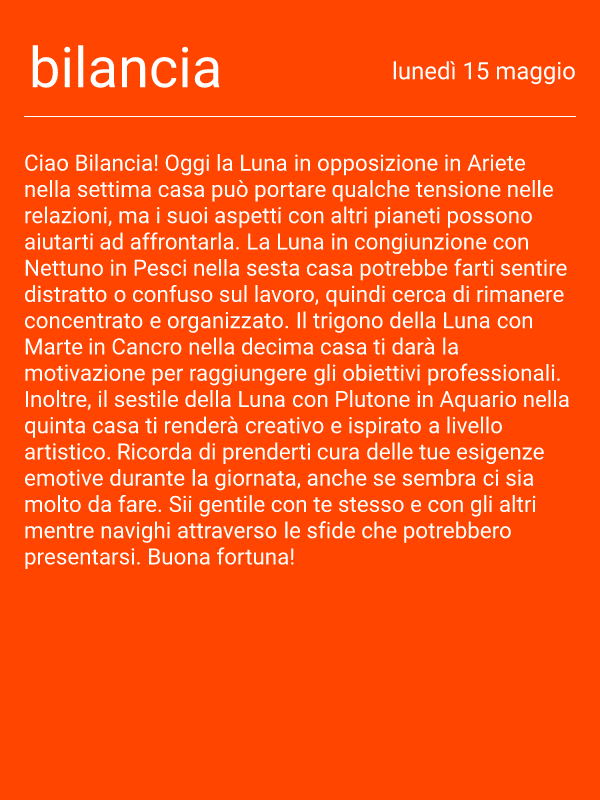
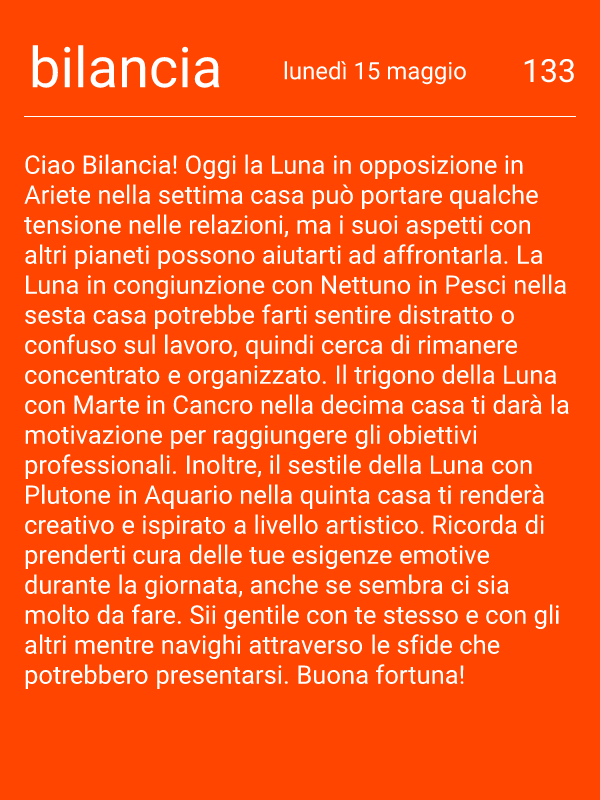
variable fontsize according to text length

Changed region(s): [[0.03, 0.1875, 0.96, 0.875], [0.48, 0.0625, 0.96, 0.125]]

diff --git a/cards/template.js b/cards/template.js
@@ -1,6 +1,9 @@
 import { getCardDate } from "../helpers/dates.js";
 
 export function generateTemplate(sign, horoscope, dateString) {
+    const textLength = horoscope.split(' ').length
+    console.log('TEXTLENGTH', textLength)
+    const textFontSize = textLength <= 125 ? '1.7rem' : textLength <= 135? '1.6rem' :'1.5rem'
   return `  <div
     style="
       display: flex;
@@ -34,6 +37,7 @@ export function generateTemplate(sign, horoscope, dateString) {
       <p
       style=" font-size: 1.5rem;"
       >${dateString} </p>
+     <span>${textLength}</span>
   </div>
 
     <p
@@ -43,7 +47,7 @@ export function generateTemplate(sign, horoscope, dateString) {
         color: #fff;
         display: flex;
         flex-direction: column;
-        font-size: 1.4rem;
+        font-size: ${textFontSize}
         
       "
     >

diff --git a/index.js b/index.js
@@ -15,8 +15,8 @@ dotenv.config();
 async function main() {
   try {
     const day = 2
-    // await generateAllImages(3)
-await tweetAllImages(0)
+    await generateAllImages(0)
+// await tweetAllImages(0)
 //     const day = 3 // 0 === today, 1 === tomorrow , -1 yesterday
 //     const {dateColons, dateDashes} = getFormattedDate(0)
 // const data = await getDataFromDB(dateDashes)
